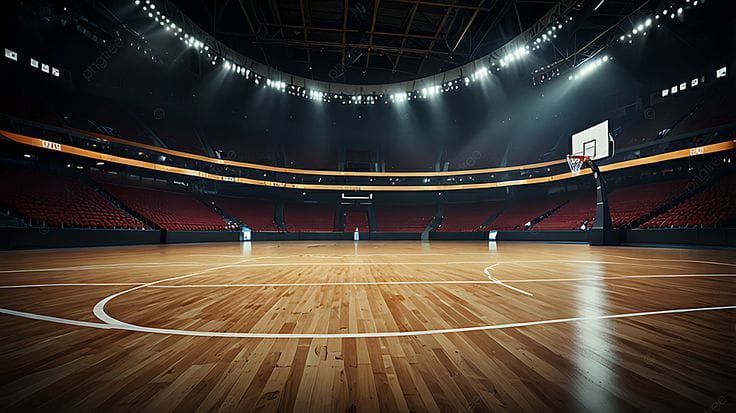
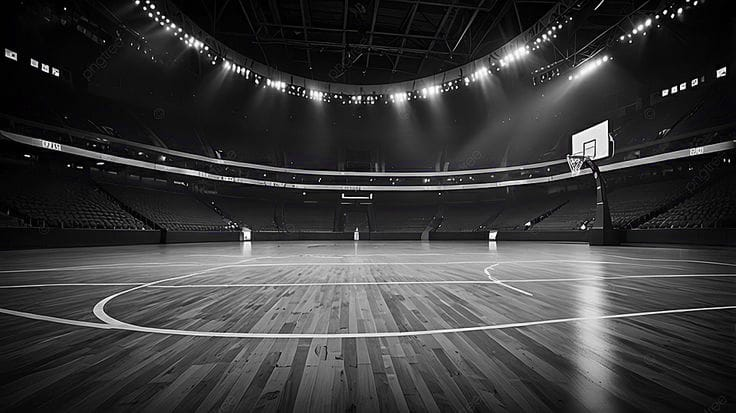
Improve dashboard layout messages statistics and filters

Changed region(s): [[0.0312, 0.4939, 0.9688, 0.9879], [0.0, 0.3196, 1.0, 0.4649]]

diff --git a/assets/css/style.css b/assets/css/style.css
@@ -358,6 +358,14 @@ button:hover {
 .toast-error {
   background: #dc3545;
 }
+@keyframes slideIn {
+from { transform: translateX(120%); opacity: 0; }
+to { transform: translateX(0); opacity: 1; }
+}
+@keyframes fadeOut {
+to { opacity: 0; visibility: hidden; }
+}
+
 
 /* =======================================================
    STRUCTURE D'AFFICHAGE DU DASHBOARD CLIENT / ADMIN

diff --git a/public/my_reservations.php b/public/my_reservations.php
@@ -1,6 +1,7 @@
 <?php
 session_start();
 $activePage = 'reservations';
+$pageTitle = "Mes réservations";
 if (!isset($_SESSION["user_id"])) {
     header("Location: login.php");
     exit;
@@ -28,7 +29,7 @@ if (isset($_GET["success"]) && $_GET["success"] === "reservation_created") {
 <head>
     <meta charset="UTF-8">
     <title>Mes réservations</title>
-        <link rel="icon" type="image/png" href="../assets/images/terraingo-logo.png">
+    <link rel="icon" type="image/png" href="../assets/images/terraingo-logo.png">
     <link rel="stylesheet" href="../assets/css/style.css">
 </head>
 
@@ -53,6 +54,16 @@ if (isset($_GET["success"]) && $_GET["success"] === "reservation_created") {
                 <?php if (empty($reservations)): ?>
                     <p class="message">Vous n’avez aucune réservation pour le moment.</p>
                 <?php else: ?>
+                    <form method="GET" class="filter-form">
+                        <label for="sport">Filtrer par status:</label>
+                        <select name="sport" id="sport">
+                            <option value="">Tous</option>
+                            <option value="football">pending</option>
+                            <option value="basket">confirmed</option>
+                            <option value="tennis">cancelled</option>
+                        </select>
+                        <button type="submit">Filtrer</button>
+                    </form>
 
                     <div class="reservations-list">
                         <?php foreach ($reservations as $reservation): ?>
@@ -96,7 +107,8 @@ if (isset($_GET["success"]) && $_GET["success"] === "reservation_created") {
 
         </main>
     </div>
-
+    <?php require_once __DIR__ . "/../views/layout/footer.php"; ?>
+    <script src="../assets/js/script.js"></script>
 </body>
 
 </html>

diff --git a/public/fields.php b/public/fields.php
@@ -41,7 +41,7 @@ if (isset($_GET["error"])) {
 <head>
     <meta charset="UTF-8">
     <title>Liste des terrains</title>
-        <link rel="icon" type="image/png" href="../assets/images/terraingo-logo.png">
+    <link rel="icon" type="image/png" href="../assets/images/terraingo-logo.png">
     <link rel="stylesheet" href="../assets/css/style.css">
 </head>
 
@@ -52,6 +52,7 @@ if (isset($_GET["error"])) {
         <?php require_once "../views/layout/sidebar.php"; ?>
 
         <main class="main-content">
+
 
             <?php require_once "../views/layout/topbar.php"; ?>
 
@@ -65,6 +66,16 @@ if (isset($_GET["error"])) {
                 <?php if (empty($fields)): ?>
                     <p class="message">Aucun terrain disponible pour le moment.</p>
                 <?php else: ?>
+                    <form method="GET" class="filter-form">
+                        <label for="sport">Filtrer par sport :</label>
+                        <select name="sport" id="sport">
+                            <option value="">Tous</option>
+                            <option value="football">Football</option>
+                            <option value="basket">Basket</option>
+                            <option value="tennis">Tennis</option>
+                        </select>
+                        <button type="submit">Filtrer</button>
+                    </form>
 
                     <div class="fields-list">
                         <?php foreach ($fields as $field): ?>
@@ -123,7 +134,7 @@ if (isset($_GET["error"])) {
             </form>
         </div>
     </div>
-
+    <?php require_once __DIR__ . "/../views/layout/footer.php"; ?>
     <script src="../assets/js/script.js"></script>
 
 </body>

diff --git a/models/Reservation.php b/models/Reservation.php
@@ -3,6 +3,8 @@ class Reservation
 {
     private $conn;
     private $table = "reservations";
+    public function countByUserId($userId) {}
+    public function countUpcomingByUserId($userId) {}
 
     public function getByUserId($userId)
     {
@@ -30,6 +32,7 @@ class Reservation
     {
         $this->conn = $db;
     }
+
     public function isAvailable($fieldId, $date, $startTime, $endTime)
     {
         $sql = "SELECT COUNT(*) as total

diff --git a/public/dashboard.php b/public/dashboard.php
@@ -65,7 +65,10 @@ $activePage = "dashboard";
             </section>
 
         </main>
+
     </div>
+    <?php require_once __DIR__ . "/../views/layout/footer.php"; ?>
+
 
     <script src="../assets/js/script.js"></script>
 </body>

diff --git a/views/layout/footer.php b/views/layout/footer.php
@@ -1,0 +1,3 @@
+<footer class="layout-footer">
+<p>&copy; <?php echo date("Y"); ?> TerrainGo. Tous droits réservés.</p>
+</footer>

diff --git a/models/Field.php b/models/Field.php
@@ -7,6 +7,7 @@ class Field
     {
         $this->conn = $db;
     }
+    public function countAll() {}
     public function getAll()
     {
         $sql = "SELECT * FROM " . $this->table . " ORDER BY created_at DESC";